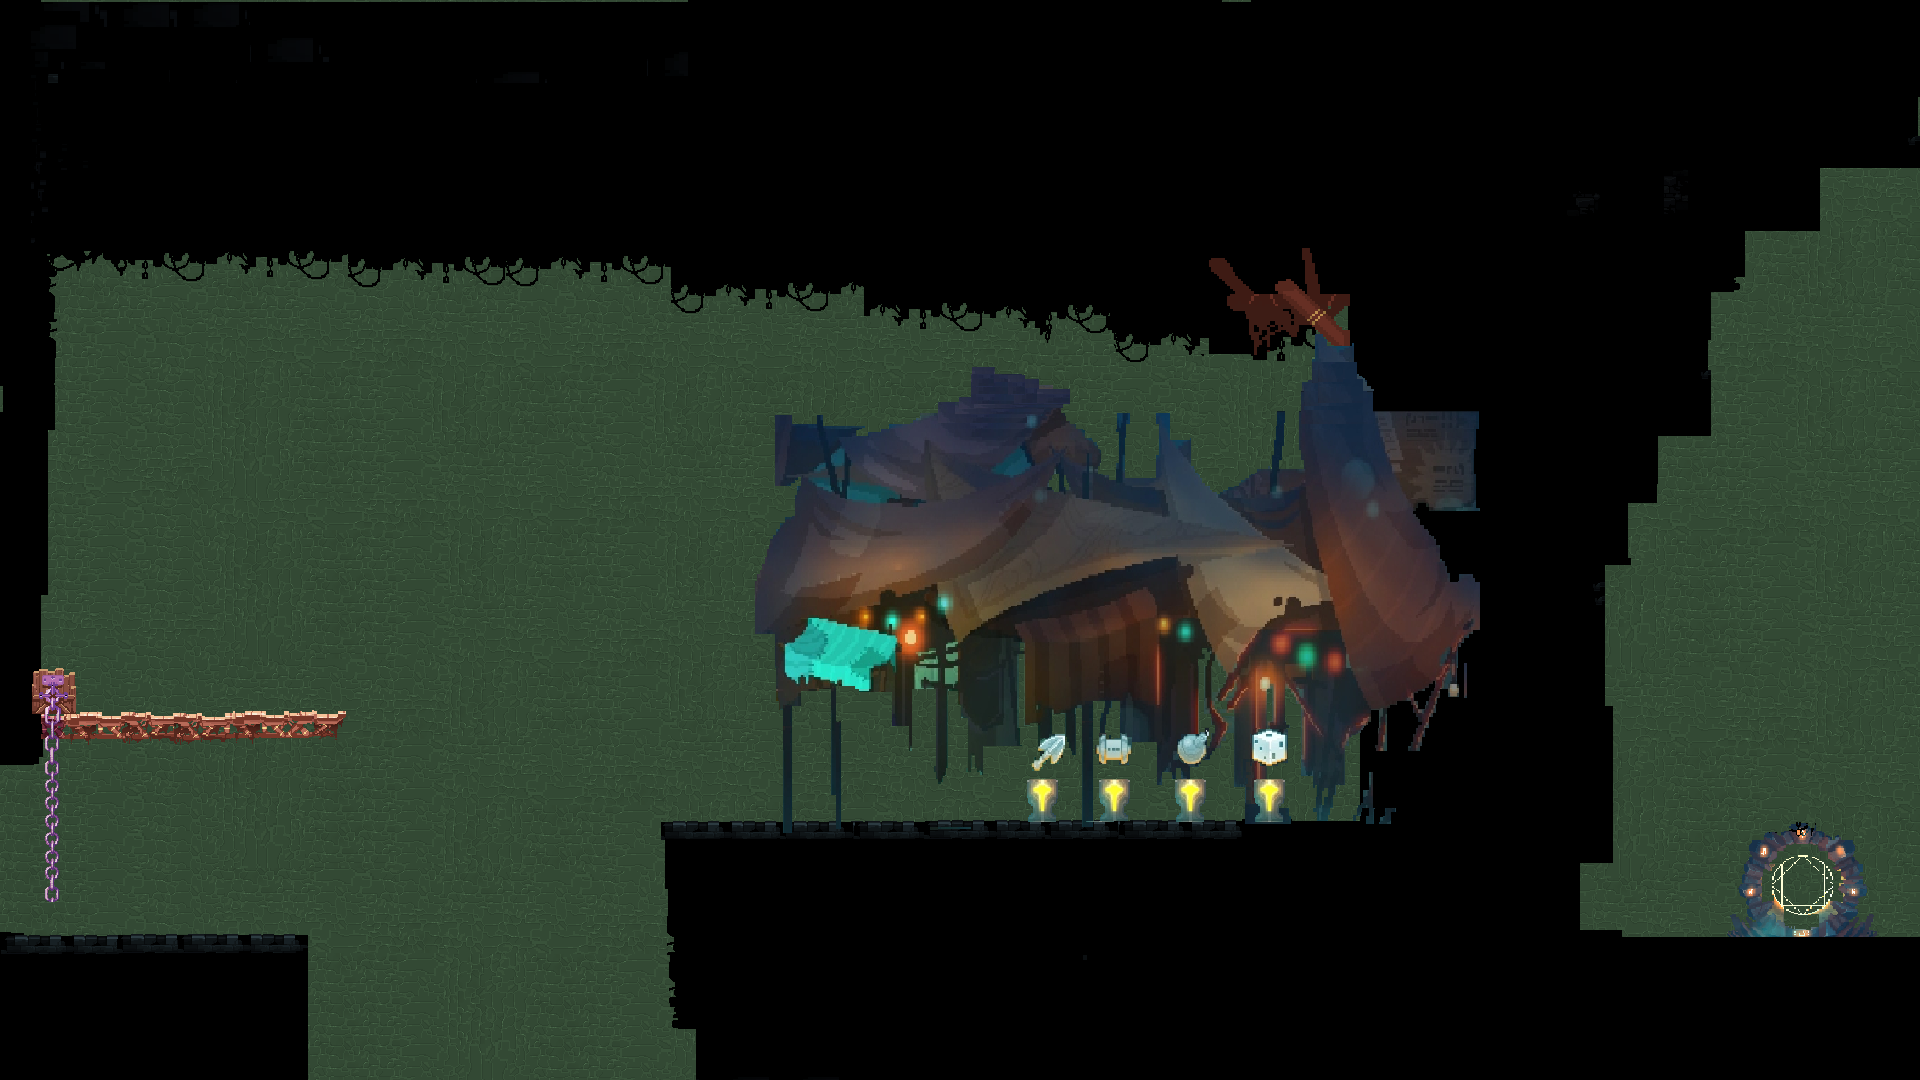
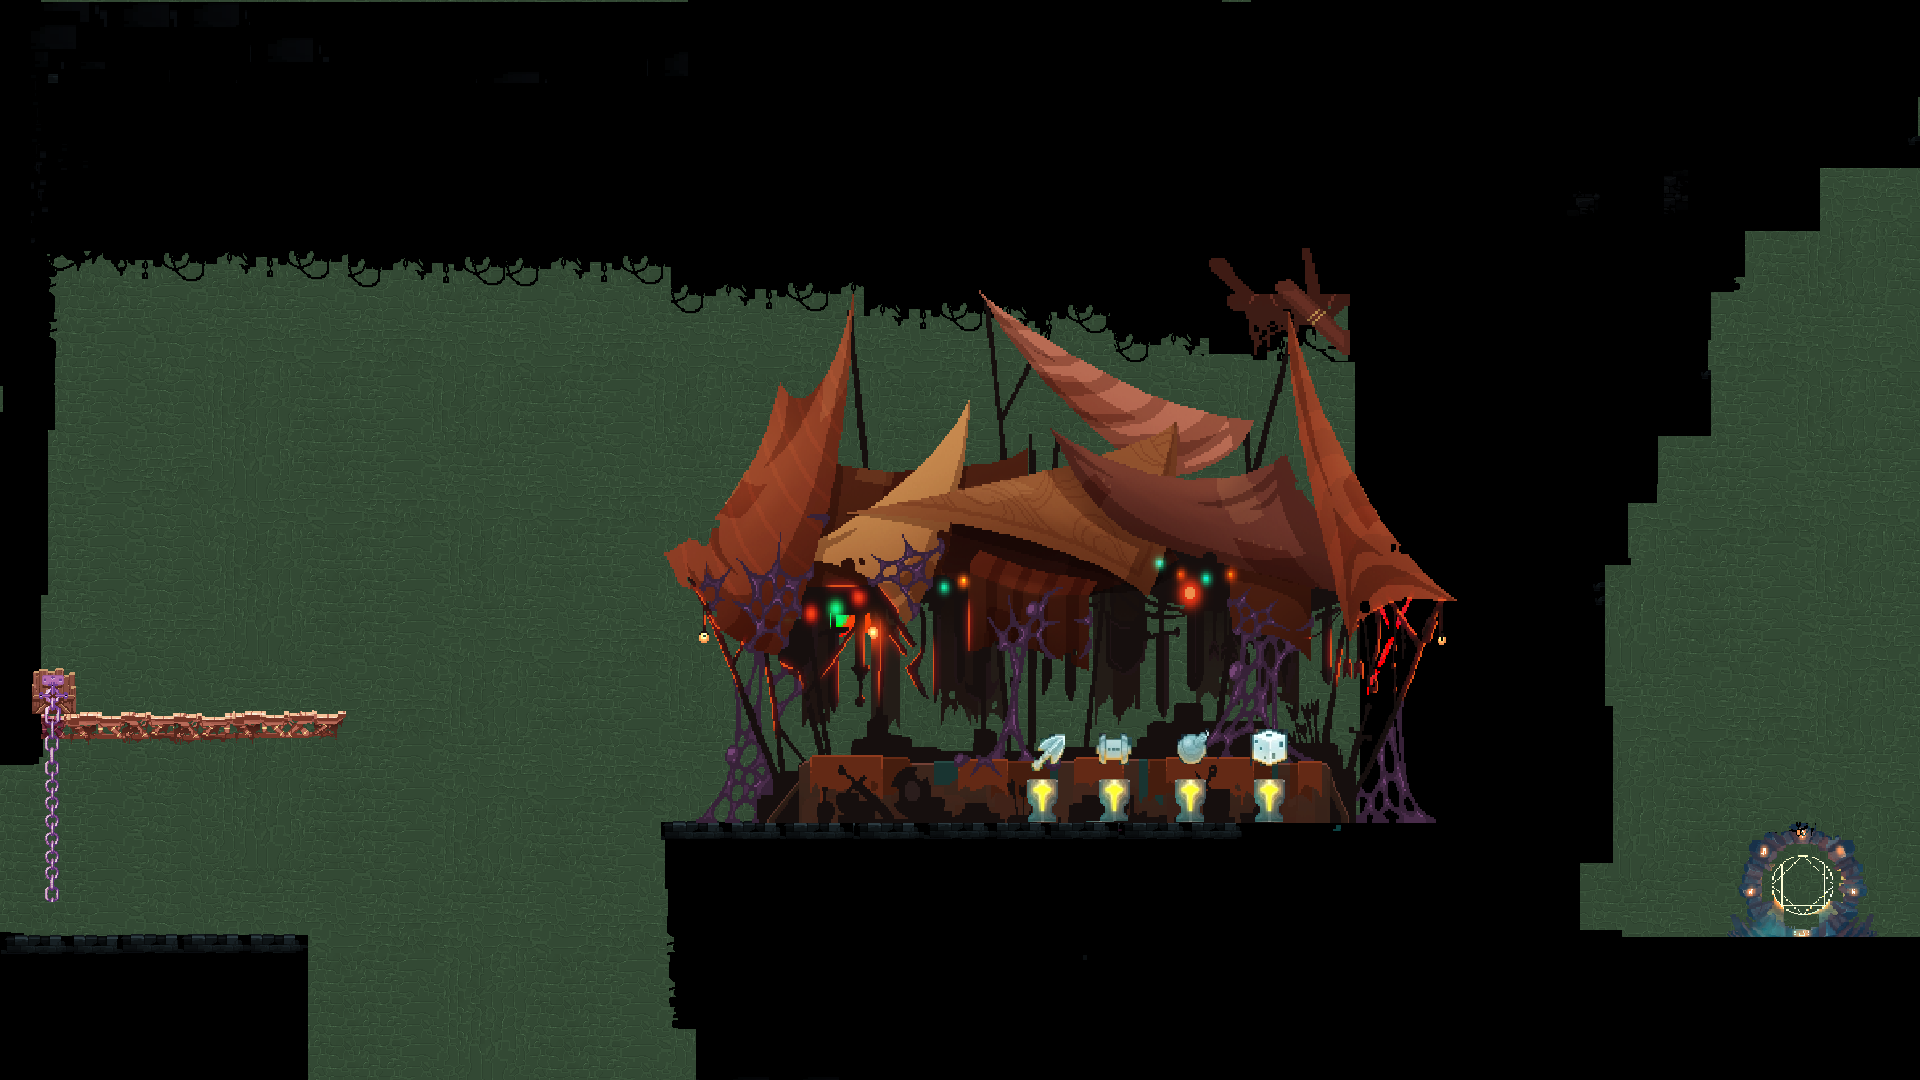
commit

Changed region(s): [[0.3438, 0.275, 0.7812, 0.7639]]

diff --git a/src/App/AppInGameInit.cpp b/src/App/AppInGameInit.cpp
@@ -16,7 +16,7 @@ void App::InGameInit() {
     }
     player = std::make_shared<Player>(Img, 100, m_World);
     player->Init();
-    player->SetPos({8145, -2160});
+    player->SetPos({5503.059082,  -2774.568848});
     player->SetZIndex(30);
     player->SetVisible(true);
     root.AddChild(player);
@@ -49,16 +49,16 @@ void App::InGameInit() {
 
     //bg
     glm::vec2 temp_pos(1, 1);
-    BGs.resize(8);
+    BGs.resize(9);
     BGs[0] = std::make_shared<BG>(RESOURCE_DIR"/bg/bg1.png", temp_pos, glm::vec2{0.8f, 0.8f});
     BGs[1] = std::make_shared<BG>(RESOURCE_DIR"/bg/bg2.png", glm::vec2{1616.0f, 174.0f}, glm::vec2{0.9f, 0.9f});
     BGs[2] = std::make_shared<BG>(RESOURCE_DIR"/bg/bg3.png", glm::vec2{3817.0f, 318.5f}, glm::vec2{1.4f, 1.4f});
     BGs[3] = std::make_shared<BG>(RESOURCE_DIR"/bg/bg5.png", glm::vec2{6309.5f, 316.5f}, glm::vec2{1.2f, 1.2f});
-    BGs[4] = std::make_shared<BG>(RESOURCE_DIR"/bg/bg9.png", glm::vec2{8609.0f, -2250.0f}, glm::vec2{1.2f, 1.2f});
-    BGs[5] = std::make_shared<BG>(RESOURCE_DIR"/bg/bg7.png", glm::vec2{8609.0f, -970.0f}, glm::vec2{1.2f, 1.2f});
+    BGs[4] = std::make_shared<BG>(RESOURCE_DIR"/bg/bg8.png", glm::vec2{6330.5f, -2250.5f}, glm::vec2{1.2f, 1.2f});
+    BGs[5] = std::make_shared<BG>(RESOURCE_DIR"/bg/bg7.png", glm::vec2{8605.5f, -970.5f}, glm::vec2{1.2f, 1.2f});
     BGs[6] = std::make_shared<BG>(RESOURCE_DIR"/bg/bg6.png", glm::vec2{6309.5f, -970.0f}, glm::vec2{1.2f, 1.2f});
-    BGs[7] = std::make_shared<BG>(RESOURCE_DIR"/bg/bg4.png", glm::vec2{1616.0f, -673.0f}, glm::vec2{0.9f, 0.9f});
-
+    BGs[7] = std::make_shared<BG>(RESOURCE_DIR"/bg/bg9.png", glm::vec2{8605.5f, -2250.5f}, glm::vec2{1.2f, 1.2f});
+    BGs[8] = std::make_shared<BG>(RESOURCE_DIR"/bg/bg4.png", glm::vec2{1616.0f, -673.0f}, glm::vec2{0.9f, 0.9f});
     for (auto& temp : BGs){
         MapObjs.push_back(temp);
         root.AddChild(temp);
